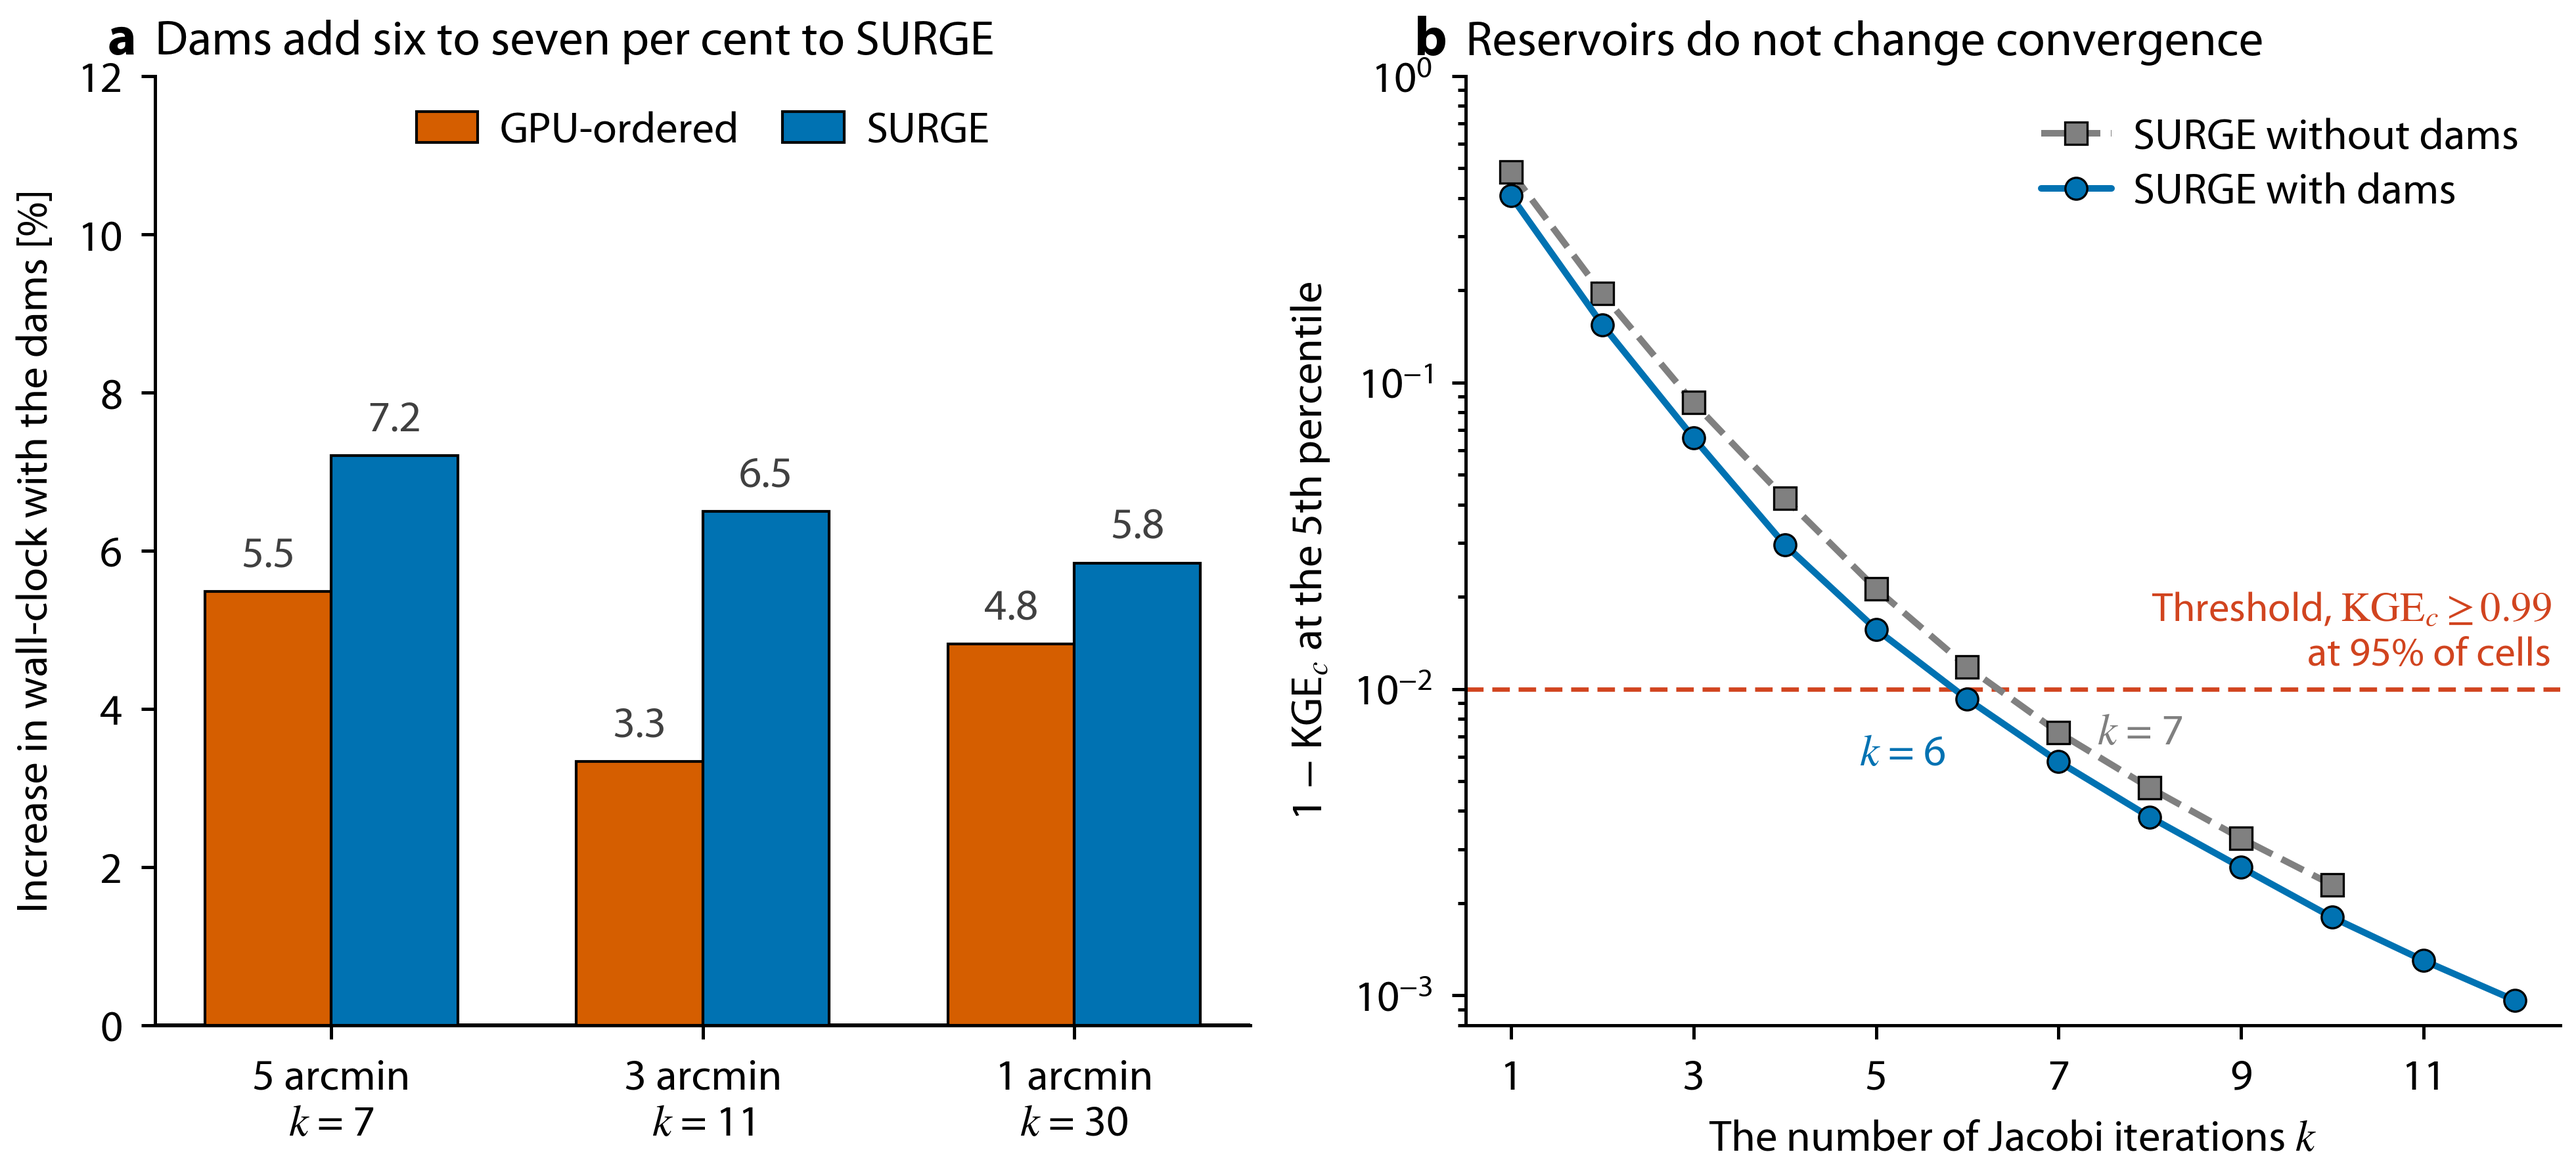
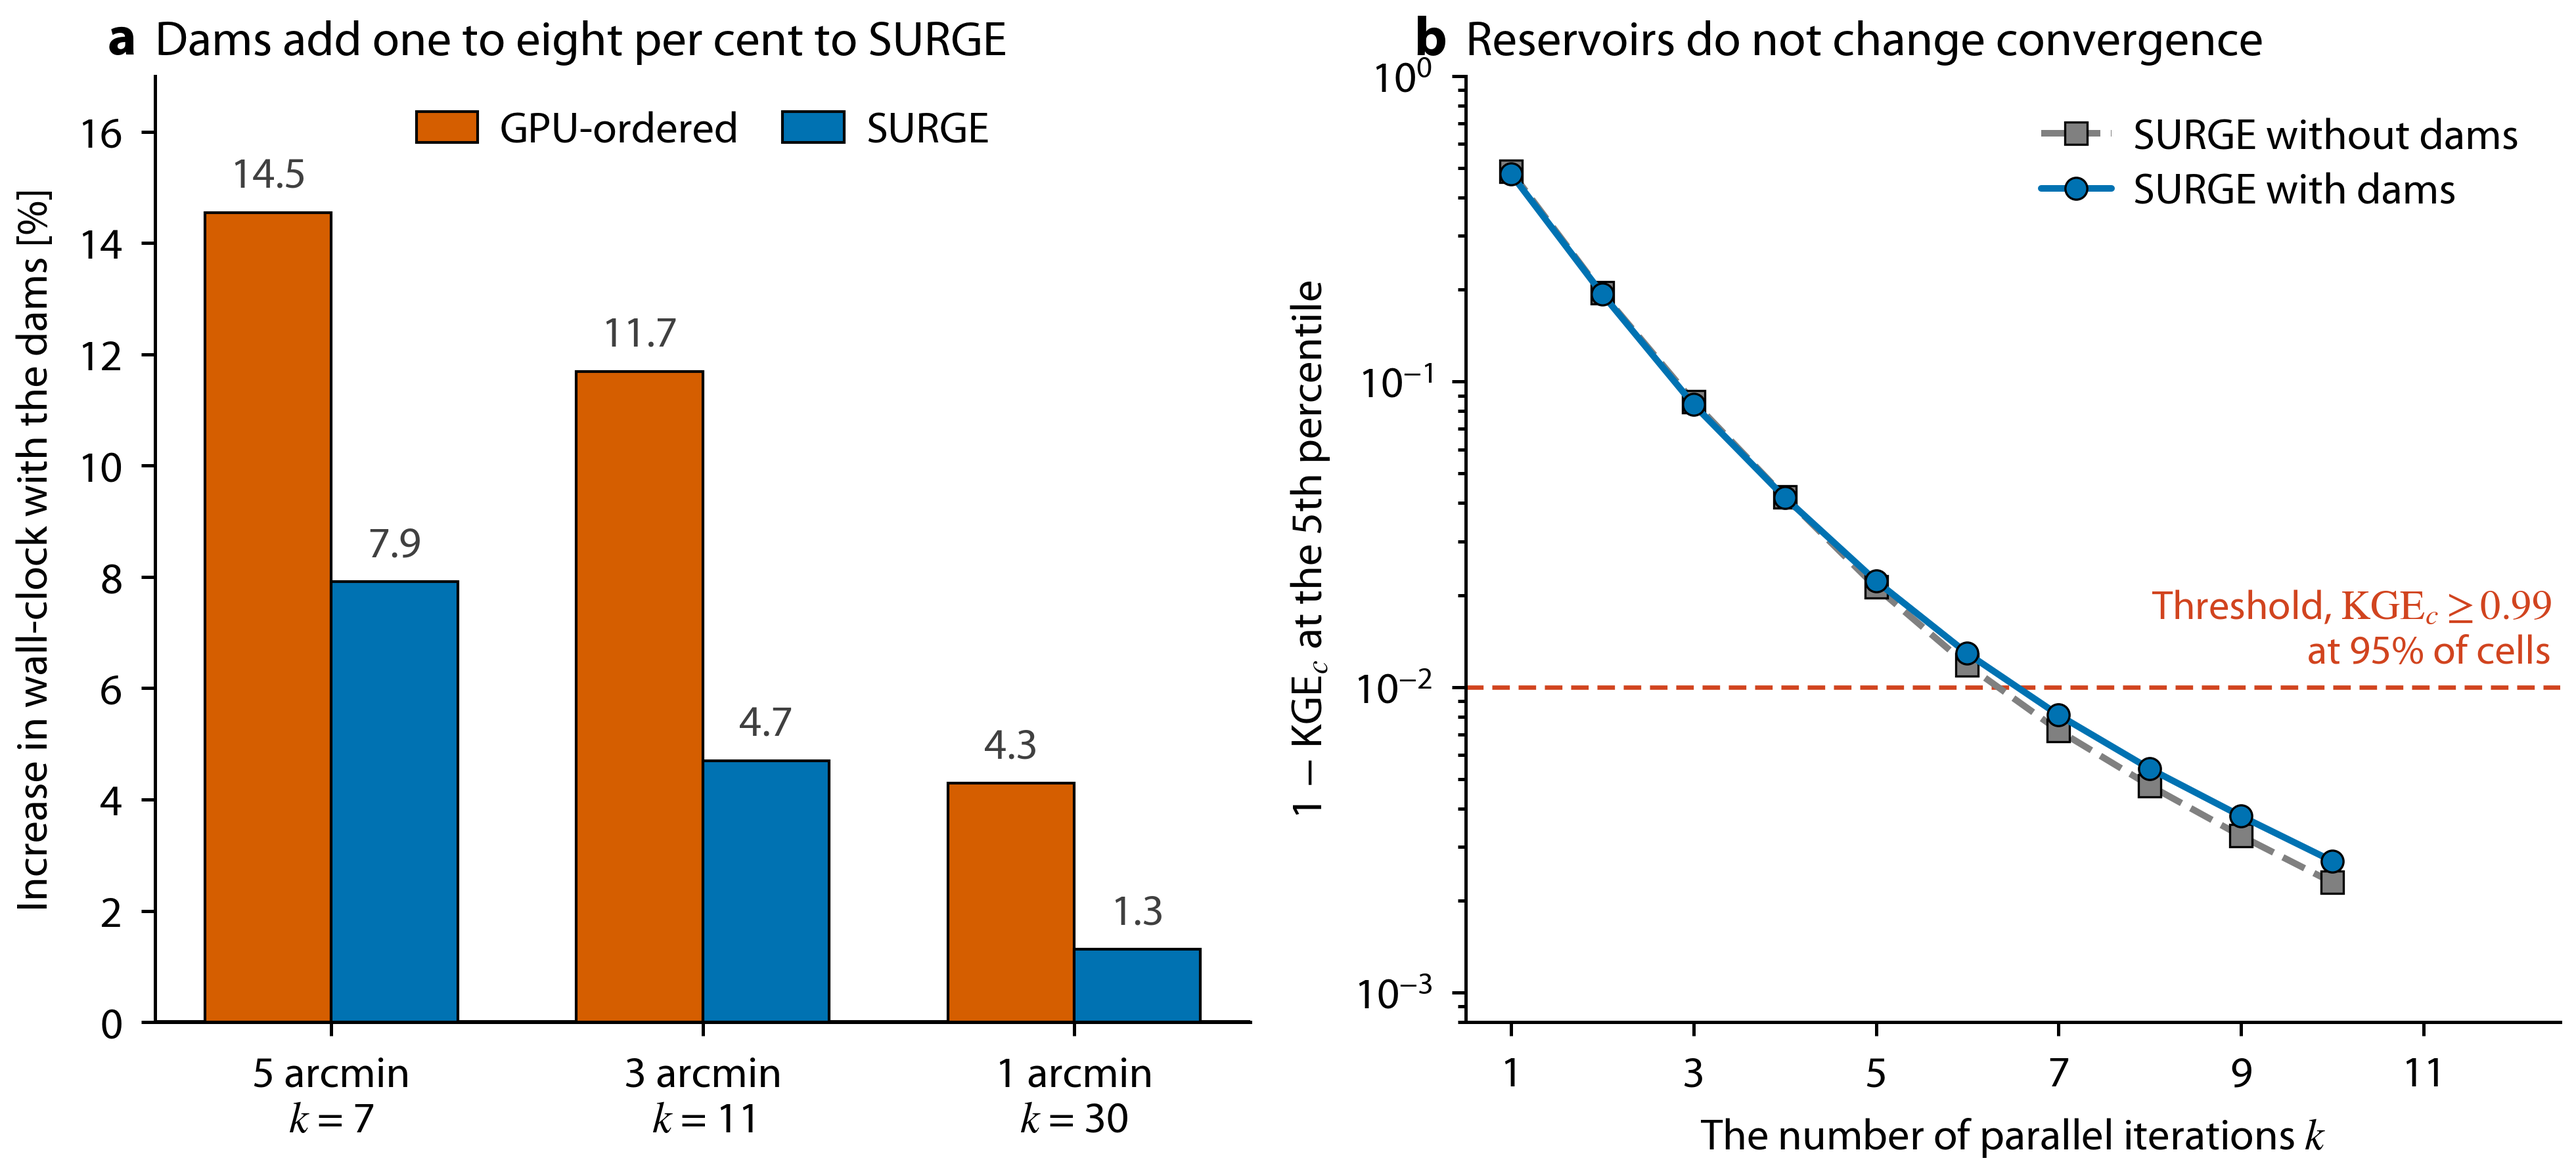
Re-measure what the reservoirs cost, three repeats per configuration
The earlier timing came from a single run of each configuration, and the run
to run spread on the node reached 12 per cent, wider than the cost being
measured. Each configuration now runs three times and reports the median. The
dams add 1.3 to 7.9 per cent to SURGE and 4.3 to 14.5 per cent to GPU-ordered,
and the share falls as the grid is refined. The convergence curve is the run
made after the release was clipped to the storage bounds.

diff --git a/paper/figure_scripts/fig_reservoir.py b/paper/figure_scripts/fig_reservoir.py
@@ -48,8 +48,8 @@ ax1.set_xticklabels(['5 arcmin\n$k$ = %d' % RT["5'"]['surge']['k'],
                      '3 arcmin\n$k$ = %d' % RT["3'"]['surge']['k'],
                      '1 arcmin\n$k$ = %d' % RT["1'"]['surge']['k']])
 ax1.set_ylabel('Increase in wall-clock with the dams [%]')
-ax1.set_ylim(0, 12)
-panel_label(ax1, 'a'); ax1.set_title('Dams add six to seven per cent to SURGE')
+ax1.set_ylim(0, 17)
+panel_label(ax1, 'a'); ax1.set_title('Dams add one to eight per cent to SURGE')
 ax1.legend(loc='upper center', ncol=2, fontsize=8.0, handlelength=1.4, handletextpad=0.5,
            columnspacing=1.0, borderpad=0.3, framealpha=0.9, facecolor='white', edgecolor='none')
 ax1.grid(False, which='both')
@@ -57,24 +57,20 @@ ax1.grid(False, which='both')
 # (b) the criterion of section 4.1 with and without the dams, over the 2010 year
 CV = json.load(open(os.path.join(DATA, 'reservoir_convergence.json')))
 THRESH = 0.01                                  # 1 - KGE at the 5th percentile, the threshold
-for key, col, mk, lab, off, ha_ in (('without_dams', '0.5', 's--', 'SURGE without dams', (7, 0), 'left'),
+for key, col, mk, lab, off, ha_ in (('without_dams', '0.5', 's--', 'SURGE without dams', (-9, -31), 'right'),
                                     ('with_dams', '#0072B2', 'o-', 'SURGE with dams',
-                                     (-4, -10), 'right')):
+                                     (-9, -17), 'right')):
     d = CV[key]
     ks_ = sorted((int(k) for k in d), key=int)
     ks_ = [k for k in ks_ if k <= 12]
     ax2.plot(ks_, [max(d[str(k)]['p5'], 1e-7) for k in ks_], mk, color=col, lw=1.2, ms=4,
              markeredgecolor='k', markeredgewidth=0.4, label=lab)
-    cross = next((k for k in ks_ if d[str(k)]['p5'] <= THRESH), None)
-    if cross is not None:
-        ax2.annotate('$k$ = %d' % cross, xy=(cross, d[str(cross)]['p5']), xytext=off,
-                     textcoords='offset points', ha=ha_, va='center', fontsize=8.0, color=col)
 ax2.axhline(THRESH, color='#d1441f', lw=0.8, ls=(0, (4, 2)), zorder=1)
 ax2.text(12.4, THRESH * 1.12, 'Threshold, $\\mathrm{KGE}_c \\geq 0.99$\n'
          'at 95% of cells', fontsize=7.5, color='#d1441f', ha='right', va='bottom',
          linespacing=1.25)      # above the line and right of where the curves cross it
 ax2.set_yscale('log')
-ax2.set_xlabel('The number of Jacobi iterations $k$')
+ax2.set_xlabel('The number of parallel iterations $k$')
 ax2.set_ylabel('1 $-$ KGE$_c$ at the 5th percentile')
 ax2.set_xticks([1, 3, 5, 7, 9, 11]); ax2.set_xlim(0.5, 12.5); ax2.set_ylim(8e-4, 1.0)
 panel_label(ax2, 'b'); ax2.set_title('Reservoirs do not change convergence')
